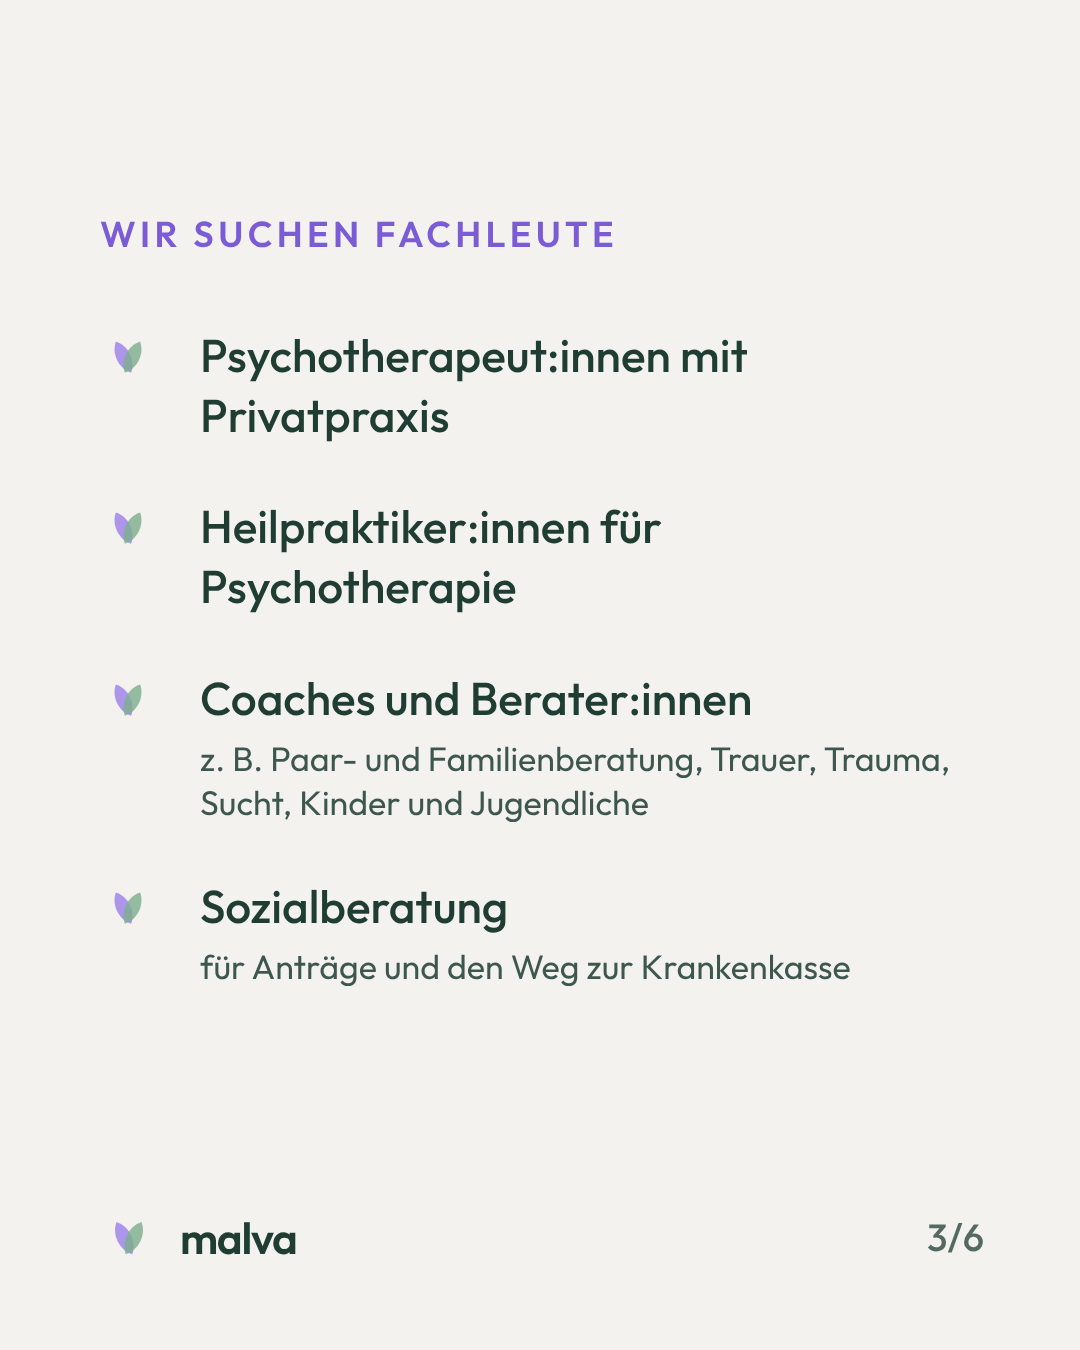
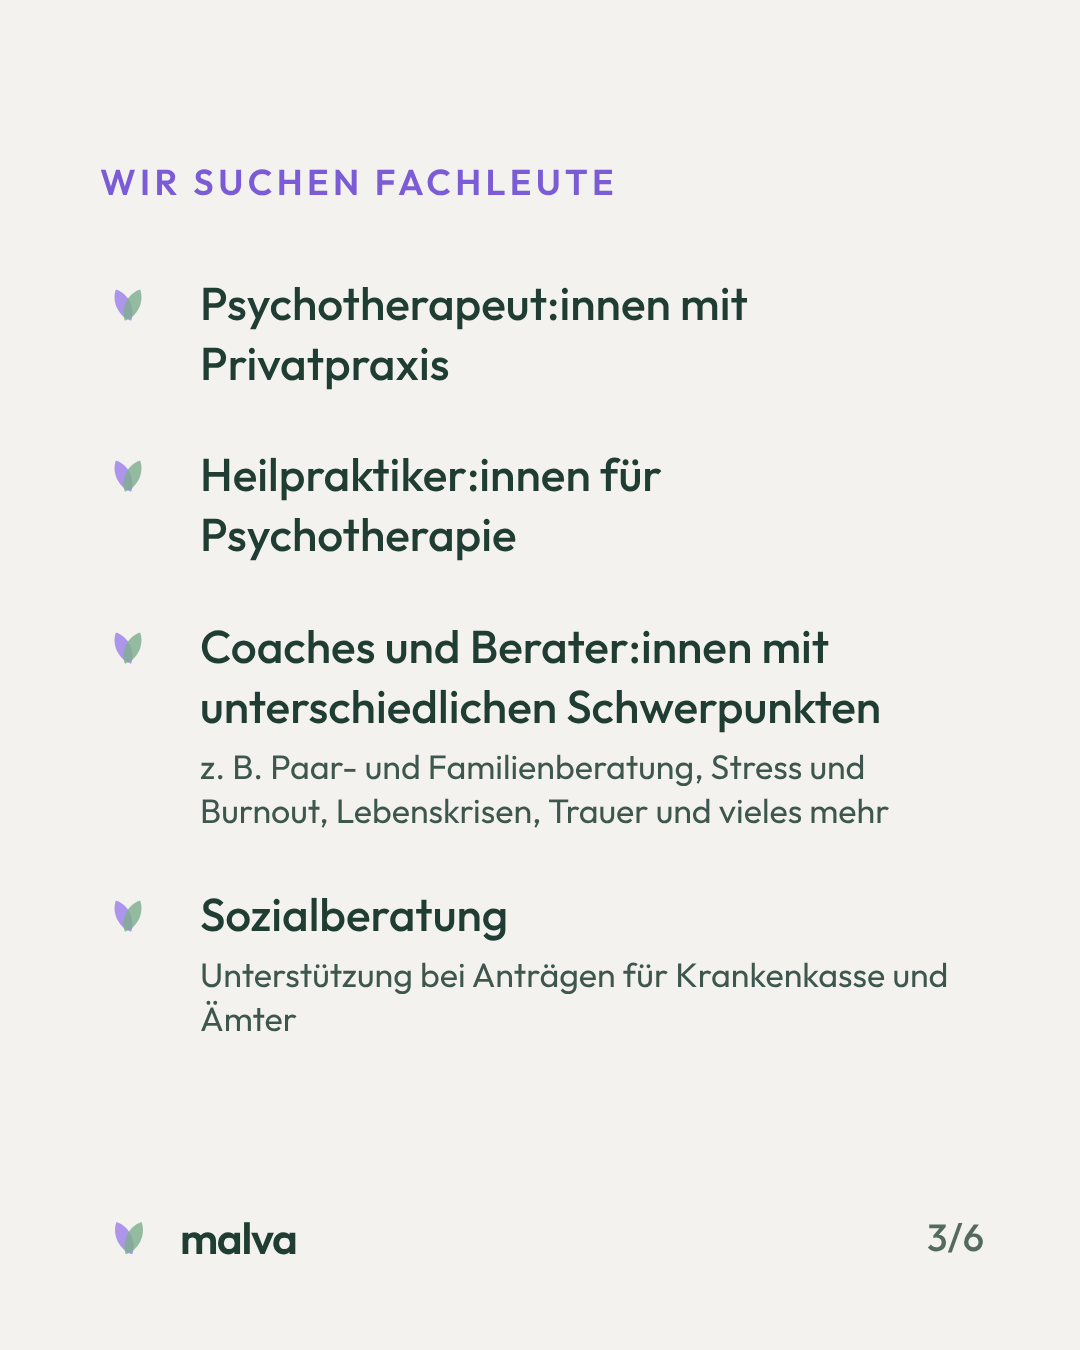
Partner-Post: Schwerpunkte, Sozialberatung, Anlaufstellen; Website: Hilfetelefon 116 016 und 116 111
Claude-Session: https://claude.ai/code/session_015uEer6M6e5oi78ZvJtGjnt

diff --git a/malva-website/instagram/partner-gesucht/slides.html b/malva-website/instagram/partner-gesucht/slides.html
@@ -58,8 +58,8 @@ h2{font-weight:600;font-size:82px;line-height:1.12;letter-spacing:-.025em}
   <ul class="list">
     <li><span data-mark="h"></span><span>Psychotherapeut:innen mit Privatpraxis</span></li>
     <li><span data-mark="h"></span><span>Heilpraktiker:innen für Psychotherapie</span></li>
-    <li><span data-mark="h"></span><span>Coaches und Berater:innen<span class="small">z. B. Paar- und Familienberatung, Trauer, Trauma, Sucht, Kinder und Jugendliche</span></span></li>
-    <li><span data-mark="h"></span><span>Sozialberatung<span class="small">für Anträge und den Weg zur Krankenkasse</span></span></li>
+    <li><span data-mark="h"></span><span>Coaches und Berater:innen mit unterschiedlichen Schwerpunkten<span class="small">z. B. Paar- und Familienberatung, Stress und Burnout, Lebenskrisen, Trauer und vieles mehr</span></span></li>
+    <li><span data-mark="h"></span><span>Sozialberatung<span class="small">Unterstützung bei Anträgen für Krankenkasse und Ämter</span></span></li>
   </ul>
   <div class="foot"><div class="brand" data-mark="h"><span>malva</span></div><span class="num">3/6</span></div>
 </section>
@@ -69,7 +69,7 @@ h2{font-weight:600;font-size:82px;line-height:1.12;letter-spacing:-.025em}
   <ul class="list">
     <li><span data-mark="d"></span><span>Unternehmen und Sponsor:innen aus der Region</span></li>
     <li><span data-mark="d"></span><span>Arztpraxen und Apotheken, die auf Malva hinweisen</span></li>
-    <li><span data-mark="d"></span><span>Expert:innen für Recht, Steuern und Finanzen</span></li>
+    <li><span data-mark="d"></span><span>Beratungs- und Anlaufstellen<span class="small">z. B. Diakonie, Caritas, Frauenhäuser, Selbsthilfegruppen</span></span></li>
     <li><span data-mark="d"></span><span>Kreative für Foto, Video und Design</span></li>
   </ul>
   <div class="foot"><div class="brand" data-mark="d"><span>malva</span></div><span class="num">4/6</span></div>
